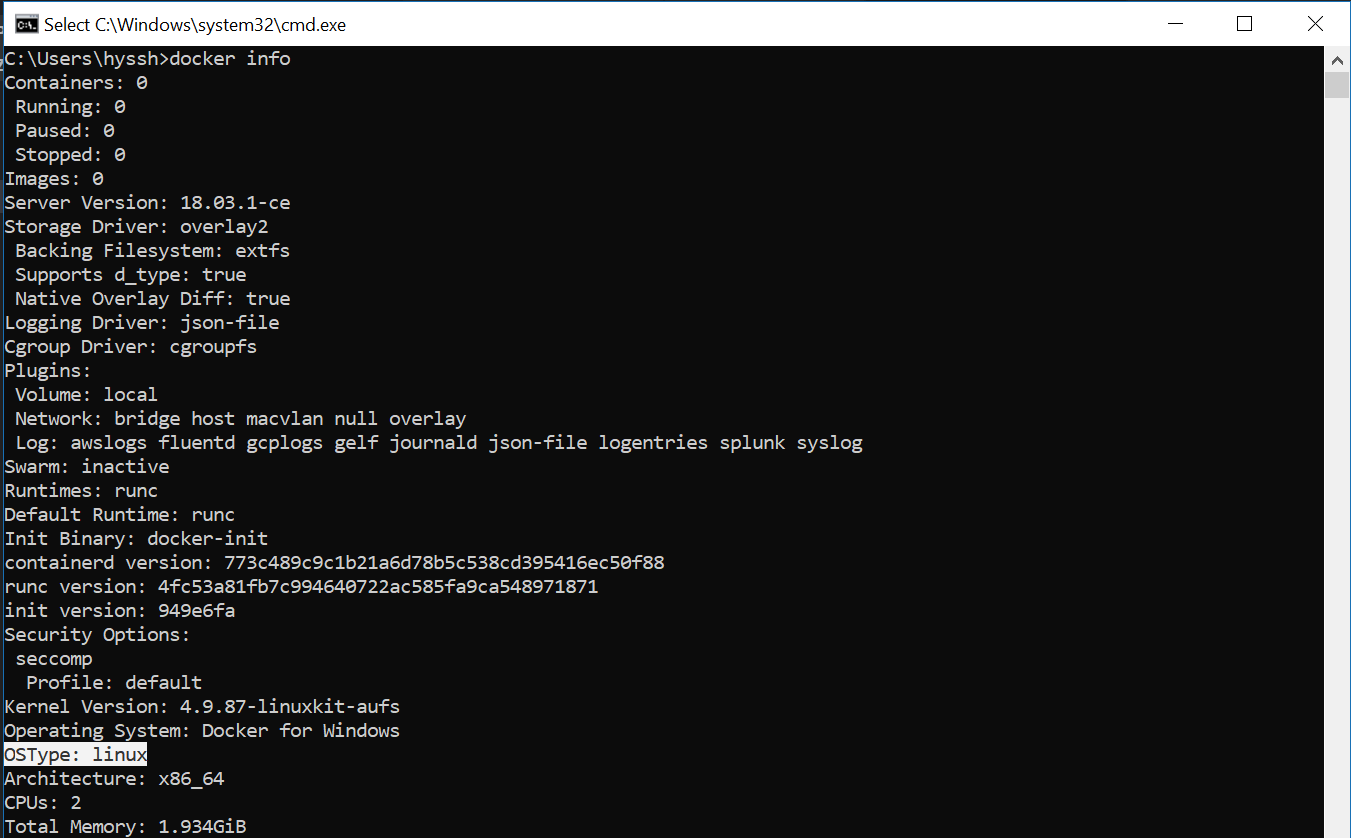
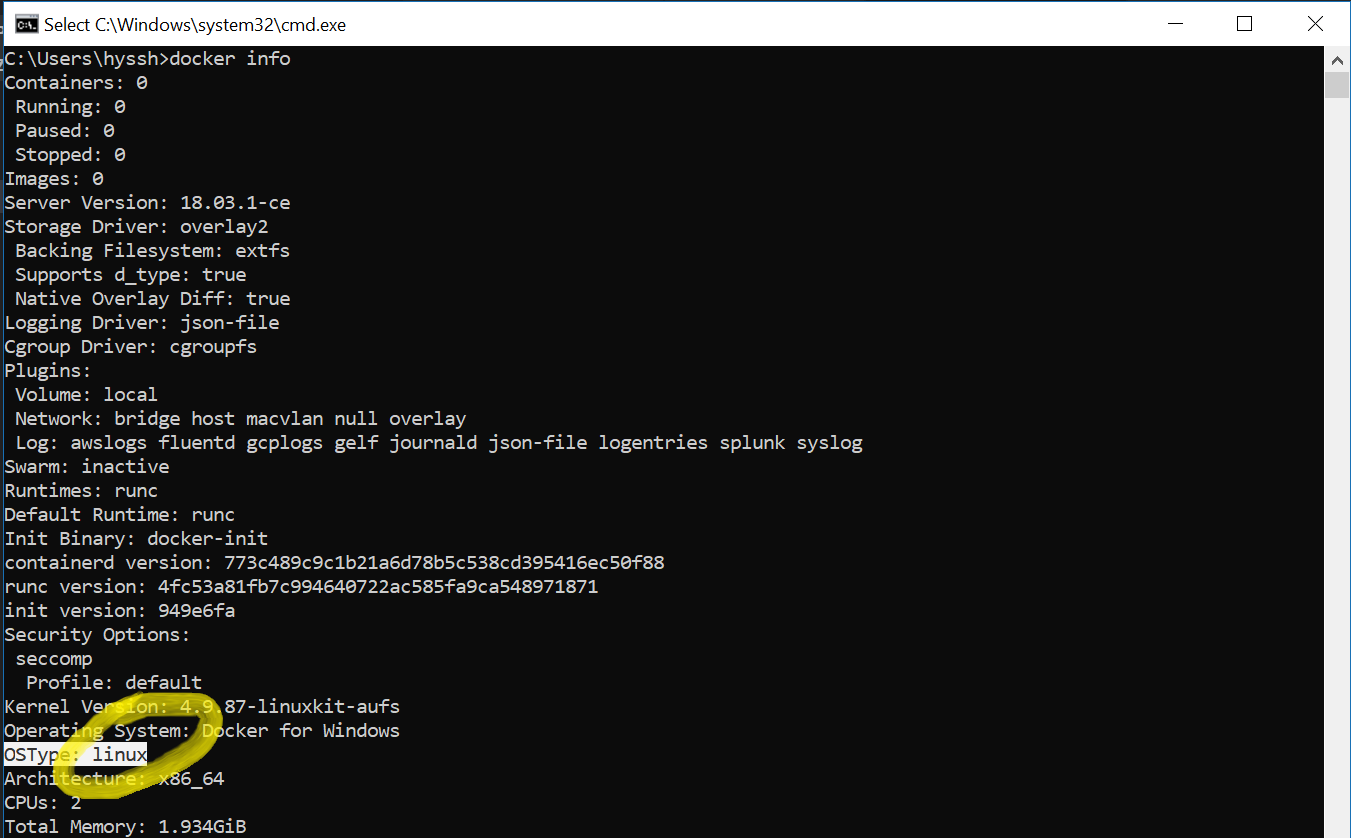
add images and labs

Changed region(s): [[0.0311, 0.8067, 0.1865, 0.9618]]

diff --git a/05.CreateNewProject.md b/05.CreateNewProject.md
@@ -1,0 +1,39 @@
+# Tutorial 1: Classify Iris - Preparing the data
+
+Azure Machine Learning service (preview) is an integrated, end-to-end data science and advanced analytics solution for professional data scientists to prepare data, develop experiments, and deploy models at cloud scale.
+
+This tutorial is **part one of a three-part series**. In this part of the tutorial, you use Azure Machine Learning services to:
+
+* Create a project in Azure Machine Learning Workbench
+
+## Create a new project in Workbench
+
+1. Open the Azure Machine Learning Workbench app, and log in if needed. 
+   
+   + On Windows, launch it using the **Machine Learning Workbench** desktop shortcut. 
+   + On macOS, select **Azure ML Workbench** in Launchpad.
+
+1. Select the plus sign (+) in the **PROJECTS** pane and choose **New Project**.  
+
+   ![New workspace](./media/tutorial-classifying-iris/new_ws.png)
+
+1. Fill out of the form fields and select the **Create** button to create a new project in the Workbench.
+
+   Field|Suggested value for tutorial|Description
+   ---|---|---
+   Project name | myIris |Enter a unique name that identifies your account. You can use your own name, or a departmental or project name that best identifies the experiment. The name should be 2 to 32 characters. It should include only alphanumeric characters and the dash (-) character. 
+   Project directory | c:\Temp\ | Specify the directory in which the project is created.
+   Project description | _leave blank_ | Optional field useful for describing the projects.
+   Visualstudio.com GIT Repository URL |_leave blank_ | Optional field. You can associate a project with a Git repository on Visual Studio Team Services for source control and collaboration. [Learn how to set that up](https://docs.microsoft.com/azure/machine-learning/desktop-workbench/using-git-ml-project#step-3-set-up-a-machine-learning-project-and-git-repo). 
+   Selected workspace | IrisGarden (if it exists) | Choose a workspace that you have created for your Experimentation account in the Azure portal. <br/>If you followed the Quickstart, you should have a workspace by the name IrisGarden. If not, select the one you created when you created your Experimentation account or any other you want to use.
+   Project template | Classifying Iris | Templates contain scripts and data you can use to explore the product. This template contains the scripts and data you need for this quickstart and other tutorials in this documentation site. 
+
+   ![New project](media/tutorial-classifying-iris/new_project.png)
+ 
+ A new project is created and the project dashboard opens with that project. At this point, you can explore the project home page, data sources, notebooks, and source code files. 
+
+   ![Open project](media/tutorial-classifying-iris/project-open.png)
+ 
+## Next steps
+
+[Model Selection](./06.ModelSelection.md)

diff --git a/02.InstallDocker.md b/02.InstallDocker.md
@@ -1,0 +1,36 @@
+# Install Docker for Windows on DSVM
+
+Duration: 10 mins
+
+## Login to DSVM on Azure
+
+Make sure you are logged on a Azure Data Science Virtual Machine. 
+
+![logondsvm](./media/install-docker/0.logondsvm.png)
+
+## Download Docker for Windows 
+
+1. Click <a href="https://docs.docker.com/docker-for-windows/install/"  about="_blank">Download Docker for Windows</a> to download install file.
+
+## Install 
+
+
+## Confirm Docker installation 
+
+1. Open windows command console.
+
+![runcmd](./media/install-docker/1.runcmd.png)
+
+2. Run following command at the console.
+
+```
+docker info
+```
+
+3. Make sure that Docker is running linux os type on your machine.
+
+![dockerinfo](./media/install-docker/2.dockerinfo.png)
+
+## Next Step
+
+[Install Azure Machine Learning Workbench](./03.InstallAzureMLWorkbench.md)

diff --git a/01.CreateDSVM.md b/01.CreateDSVM.md
@@ -1,5 +1,7 @@
 # Provision the Windows Data Science Virtual Machine
 
+Duration: 10 mins
+
 ## Create your Microsoft Data Science Virtual Machine
 To create an instance of the Microsoft Data Science Virtual Machine, follow these steps:
 

diff --git a/03.InstallAzureMLWorkbench.md b/03.InstallAzureMLWorkbench.md
@@ -1,5 +1,7 @@
 # Install and log in to Workbench
 
+Duration: 30 mins
+
 Azure Machine Learning Workbench is available for Windows or macOS. See the list of [supported platforms](#prerequisites).
 
 >[!WARNING]

diff --git a/04.CreateAZMLServices.md b/04.CreateAZMLServices.md
@@ -1,5 +1,7 @@
 # Create Azure Machin Learning Services
 
+Duration: 10 mins
+
 Use the Azure portal to provision your Azure Machine Learning accounts: 
 1. Go to [Azure portal](https://portal.azure.com/).
 
